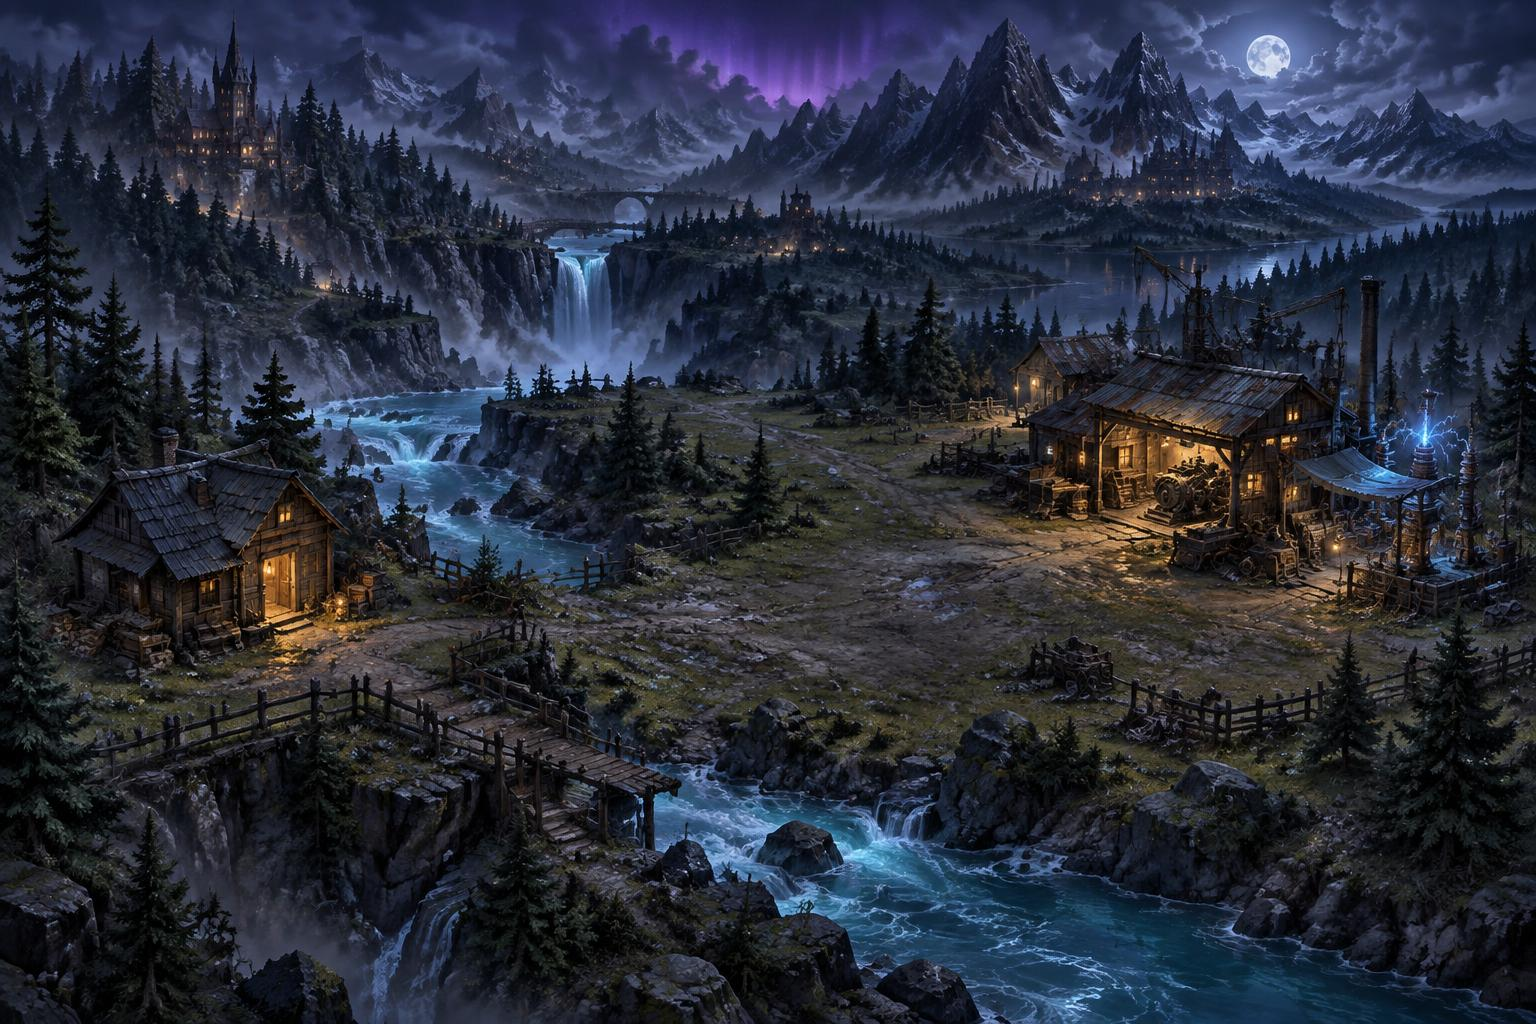
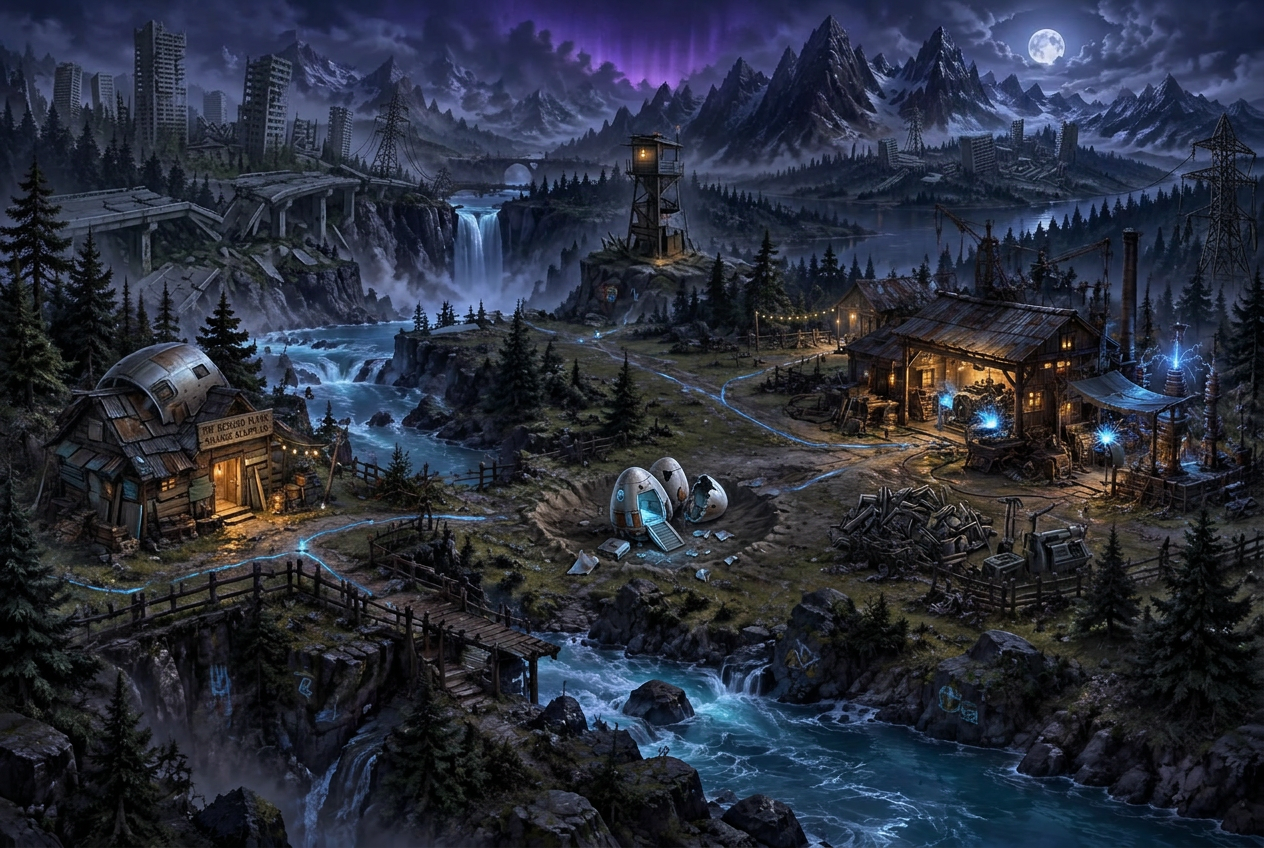
Changes

diff --git a/src/routes/index.tsx b/src/routes/index.tsx
@@ -182,7 +182,7 @@ function CommandCentre() {
       <div className="world-column">
         <div className="section-heading"><div><div className="eyebrow"><span className="eyebrow-line"/> LIVE WORLD FEED <span className="eyebrow-line"/></div><h1>Zygoria <span>World</span></h1><p>Three minds. One world. Infinite possibilities.</p></div><div className="world-index"><CircleDot size={14}/> SECTOR 01 <span> / </span> ACTIVE</div></div>
         <div className="world-frame">
-          <div className="world-image-wrap"><img className="world-image" src={world} width={1536} height={1024} alt="Zygoria landscape with a wooden riverside shack, Brix's workshop, and mountains" />
+          <div className="world-image-wrap"><img className="world-image" src={world} width={1536} height={1024} alt="Zygoria: a salvaged riverside shack, Brix's scrap workshop, three landing pods, a lookout tower and Old Earth ruins" />
             <div className="world-vignette"/>
             <div className="map-coordinate top-left">◉ &nbsp; ZYGORIA / CENTRAL BASIN</div>
             <div className="map-coordinate top-right"><span className="live-dot"/> LIVE ENVIRONMENT</div>
